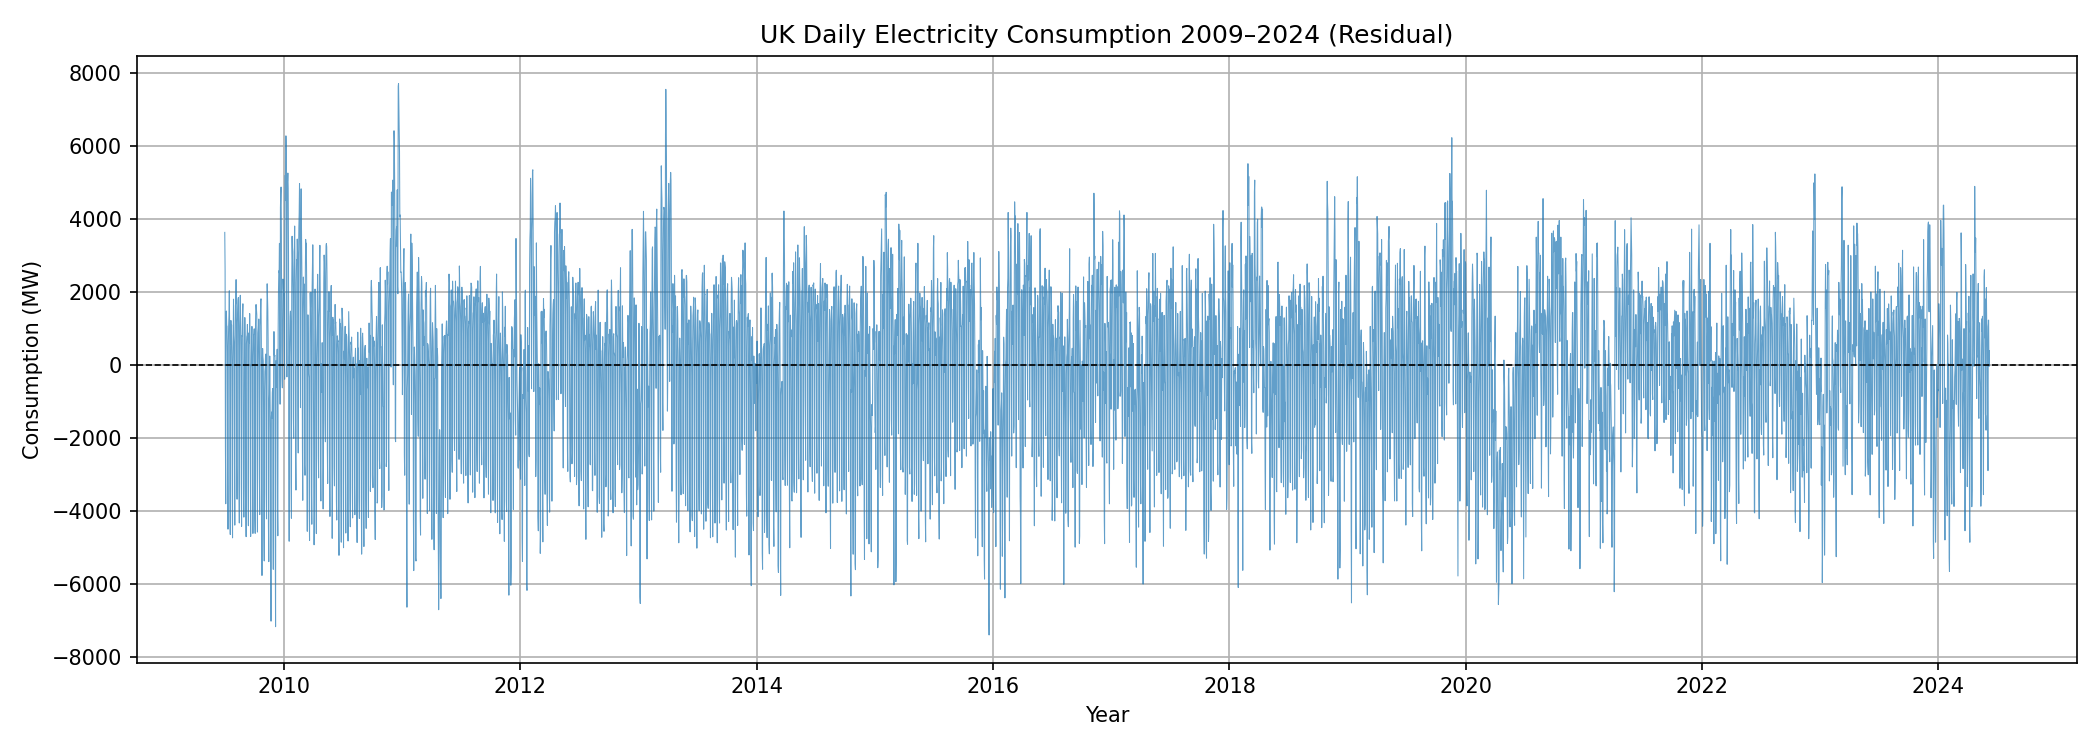
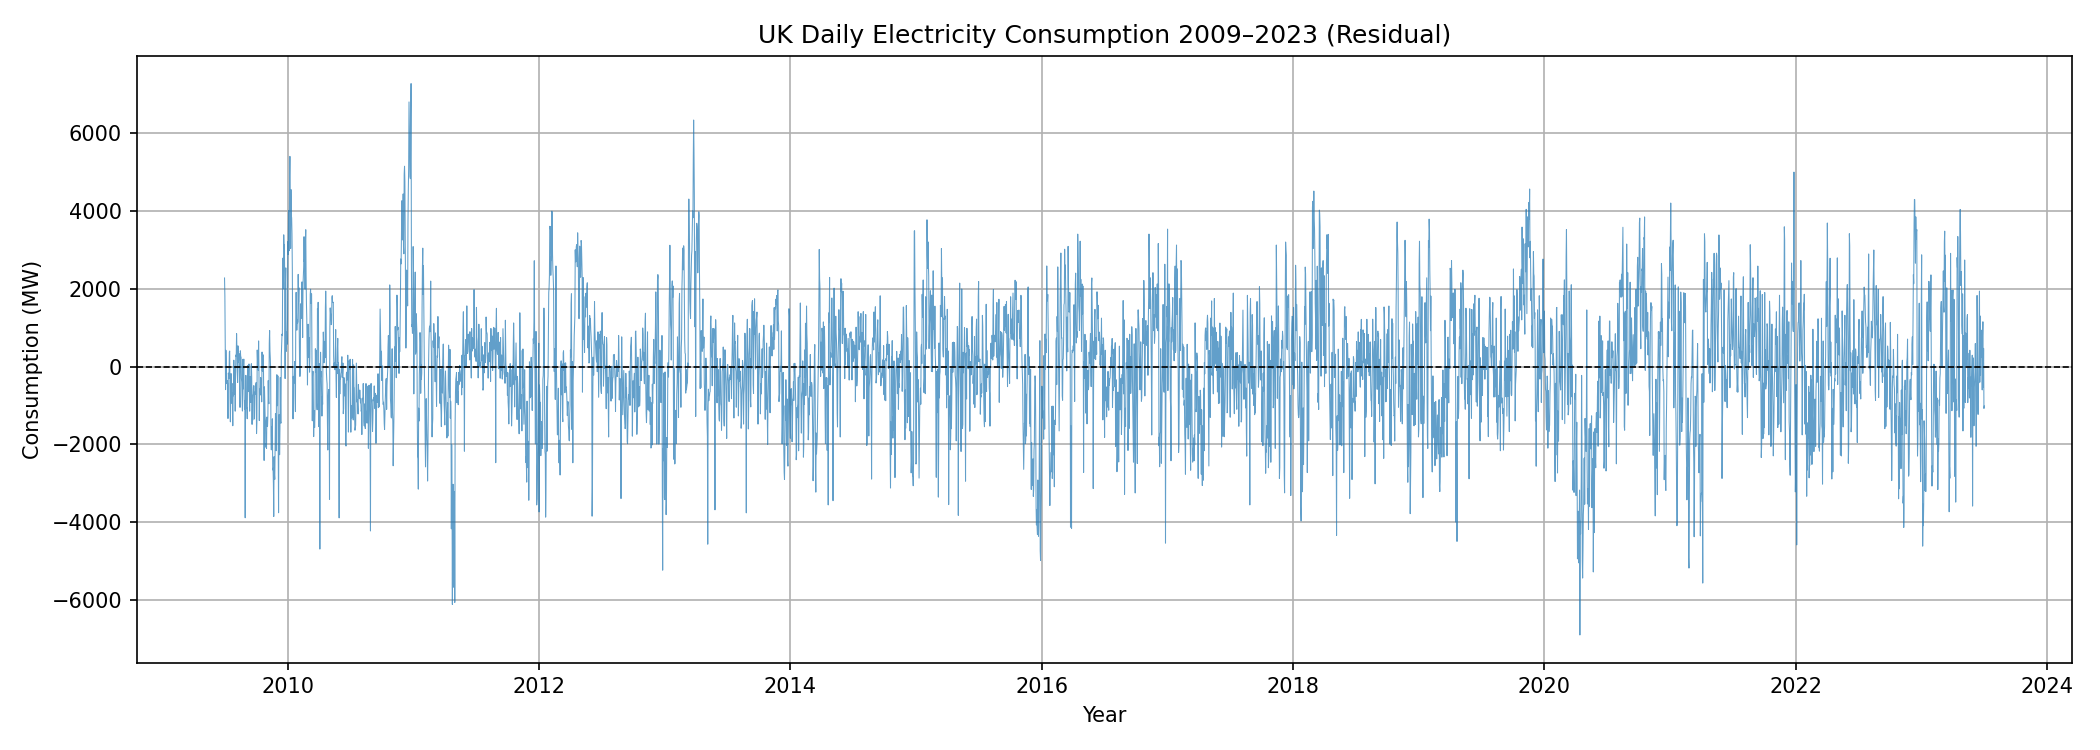
Refactor code to look at all years instead.

diff --git a/estimate_parameters.py b/estimate_parameters.py
@@ -7,60 +7,87 @@ daily_df = df.groupby("settlement_date")["nd"].mean().reset_index()
 daily_df.columns = ["date", "nd"]
 daily_df = daily_df.sort_values("date").reset_index(drop=True)
 
+train_df = daily_df[daily_df["date"].dt.year < 2024].copy().reset_index(drop=True)
+test_df  = daily_df[daily_df["date"].dt.year >= 2024].copy().reset_index(drop=True)
+
 # Trend m_t: yearly moving average (1.5.5 in the book)
-daily_df["trend"] = daily_df["nd"].rolling(window=365, center=True, min_periods=365).mean()
+train_df["trend"] = train_df["nd"].rolling(window=365, center=True, min_periods=365).mean()
 
-# W_k: mean detrended value per day-of-year
-daily_df["detrended"] = daily_df["nd"] - daily_df["trend"]
-daily_df["doy"] = daily_df["date"].dt.day_of_year
-W = daily_df.groupby("doy")["detrended"].mean()
-
-# s_k = W_k - mean(W)
+# W_k: mean detrended value per day-of-year (annual seasonality)
+train_df["detrended"] = train_df["nd"] - train_df["trend"]
+train_df["doy"] = train_df["date"].dt.day_of_year
+W = train_df.groupby("doy")["detrended"].mean()
 s = W - W.mean()
-daily_df["seasonality"] = daily_df["doy"].map(s)
+train_df["seasonality"] = train_df["doy"].map(s)
+
+# Weekly (day-of-week) seasonality from annually-deseasonalized residual
+train_df["after_annual"] = train_df["detrended"] - train_df["seasonality"]
+train_df["dow"] = train_df["date"].dt.dayofweek
+W_weekly = train_df.dropna(subset=["after_annual"]).groupby("dow")["after_annual"].mean()
+W_weekly = W_weekly - W_weekly.mean()
+train_df["weekly_seasonal"] = train_df["dow"].map(W_weekly)
 
 # Deseasonalized and residual
-daily_df["deseasonalized"] = daily_df["nd"] - daily_df["seasonality"]
-daily_df["residual"] = daily_df["nd"] - daily_df["trend"] - daily_df["seasonality"]
+train_df["deseasonalized"] = train_df["nd"] - train_df["seasonality"] - train_df["weekly_seasonal"]
+train_df["residual"] = train_df["nd"] - train_df["trend"] - train_df["seasonality"] - train_df["weekly_seasonal"]
 
 # --- Polynomial fit (degree 3) to deseasonalized data ---
-N = len(daily_df)
+N = len(train_df)
 t = np.arange(N) / (N - 1)
-mask = daily_df["deseasonalized"].notna()
-poly_coeffs = np.polyfit(t[mask], daily_df["deseasonalized"][mask], deg=3)
+mask = train_df["deseasonalized"].notna()
+poly_coeffs = np.polyfit(t[mask], train_df["deseasonalized"][mask], deg=3)
 poly_fit = np.polyval(poly_coeffs, t)
 
-# --- Harmonic fit (k=1) to seasonal component ---
-# s_t = a0 + a1*cos(2*pi*t/365) + b1*sin(2*pi*t/365)
-doy = daily_df["doy"].values
-X = np.column_stack([
+# --- Harmonic fit (k=1) to annual seasonal component ---
+doy = train_df["doy"].values
+X_ann = np.column_stack([
     np.ones(len(doy)),
     np.cos(2 * np.pi * doy / 365),
     np.sin(2 * np.pi * doy / 365),
 ])
-harm_coeffs, _, _, _ = np.linalg.lstsq(X, daily_df["seasonality"].values, rcond=None)
-harm_fit = X @ harm_coeffs
+harm_ann_coeffs, _, _, _ = np.linalg.lstsq(X_ann, train_df["seasonality"].values, rcond=None)
 
-# Format polynomial label with coefficients
-a3, a2, a1, a0 = [round(c) for c in poly_coeffs]
+# --- Harmonic fit (k=2) to weekly seasonal component ---
+dow_vals = train_df["dow"].values
+X_week = np.column_stack([
+    np.ones(len(dow_vals)),
+    np.cos(2 * np.pi * dow_vals / 7),
+    np.sin(2 * np.pi * dow_vals / 7),
+    np.cos(4 * np.pi * dow_vals / 7),
+    np.sin(4 * np.pi * dow_vals / 7),
+])
+harm_week_coeffs, _, _, _ = np.linalg.lstsq(X_week, train_df["weekly_seasonal"].values, rcond=None)
+
 def signed(val):
     return f"+ {val}" if val >= 0 else f"- {abs(val)}"
+
+# Format polynomial label
+a3, a2, a1, a0 = [round(c) for c in poly_coeffs]
 poly_label = rf"$\hat{{m}}_t = {a0} {signed(a1)} t {signed(a2)} t^2 {signed(a3)} t^3$"
 
-# Format harmonic label with coefficients
-h0, h1, b1 = [round(c) for c in harm_coeffs]
-harm_label = (
+# Format annual harmonic label
+h0, h1, hb1 = [round(c) for c in harm_ann_coeffs]
+harm_ann_label = (
     rf"$\hat{{s}}_t = {h0} {signed(h1)} \cdot \cos\!\left(\frac{{2\pi t}}{{365}}\right)"
-    rf" {signed(b1)} \cdot \sin\!\left(\frac{{2\pi t}}{{365}}\right)$"
+    rf" {signed(hb1)} \cdot \sin\!\left(\frac{{2\pi t}}{{365}}\right)$"
+)
+
+# Format weekly harmonic label
+w0, w1, wb1, w2, wb2 = [round(c) for c in harm_week_coeffs]
+harm_week_label = (
+    rf"$\hat{{w}}_t = {w0} {signed(w1)} \cos\!\frac{{2\pi t}}{{7}}"
+    rf" {signed(wb1)} \sin\!\frac{{2\pi t}}{{7}}"
+    rf" {signed(w2)} \cos\!\frac{{4\pi t}}{{7}}"
+    rf" {signed(wb2)} \sin\!\frac{{4\pi t}}{{7}}$"
 )
 
 # Deseasonalized with polynomial fit
 plt.figure(figsize=(14, 5))
-plt.plot(daily_df["date"], daily_df["deseasonalized"], linewidth=0.5, alpha=0.7, label="Deseasonalized data")
-plt.plot(daily_df["date"], poly_fit, linewidth=1.5, color="tab:red", label=poly_label)
+plt.plot(train_df["date"], train_df["deseasonalized"], linewidth=0.5, alpha=0.7, label="Deseasonalized data")
+plt.plot(train_df["date"], poly_fit, linewidth=1.5, color="tab:red", label=poly_label)
 plt.xlabel("Year")
 plt.ylabel("Consumption (MW)")
-plt.title("UK Daily Electricity Consumption 2009–2024 (Deseasonalized)")
+plt.title("UK Daily Electricity Consumption 2009–2023 (Deseasonalized)")
 plt.legend()
 plt.grid(True)
 plt.tight_layout()
@@ -68,13 +95,21 @@ plt.savefig("data/output/deseasonalized.png", dpi=150)
 plt.close()
 print("Saved to data/output/deseasonalized.png")
 
-# Seasonal component with harmonic fit
-plt.figure(figsize=(14, 5))
-plt.plot(daily_df["date"], daily_df["seasonality"], linewidth=0.5, alpha=0.7, label="Seasonal data")
-plt.plot(daily_df["date"], harm_fit, linewidth=1.5, color="tab:red", label=harm_label)
-plt.xlabel("Year")
+# Annual seasonal component — one period (doy 1–365)
+doy_one = np.arange(1, 366)
+X_ann_one = np.column_stack([
+    np.ones(365),
+    np.cos(2 * np.pi * doy_one / 365),
+    np.sin(2 * np.pi * doy_one / 365),
+])
+harm_ann_one = X_ann_one @ harm_ann_coeffs
+
+plt.figure(figsize=(10, 4))
+plt.plot(doy_one, s.reindex(doy_one), linewidth=1.0, alpha=0.8, label="Annual seasonal component")
+plt.plot(doy_one, harm_ann_one, linewidth=1.5, color="tab:red", label=harm_ann_label)
+plt.xlabel("Day of year")
 plt.ylabel("Consumption (MW)")
-plt.title("UK Daily Electricity Consumption 2009–2024 (Seasonal Component)")
+plt.title("Annual Seasonal Component (One Period)")
 plt.legend()
 plt.grid(True)
 plt.tight_layout()
@@ -82,15 +117,109 @@ plt.savefig("data/output/seasonality.png", dpi=150)
 plt.close()
 print("Saved to data/output/seasonality.png")
 
+# Weekly seasonal component — one period (Mon–Sun)
+dow_one = np.arange(7)
+X_week_one = np.column_stack([
+    np.ones(7),
+    np.cos(2 * np.pi * dow_one / 7),
+    np.sin(2 * np.pi * dow_one / 7),
+    np.cos(4 * np.pi * dow_one / 7),
+    np.sin(4 * np.pi * dow_one / 7),
+])
+harm_week_one = X_week_one @ harm_week_coeffs
+
+day_names = ["Mon", "Tue", "Wed", "Thu", "Fri", "Sat", "Sun"]
+plt.figure(figsize=(8, 4))
+plt.plot(dow_one, W_weekly.reindex(dow_one), "o-", linewidth=1.0, alpha=0.8, label="Weekly seasonal component")
+plt.plot(dow_one, harm_week_one, linewidth=1.5, color="tab:red", label=harm_week_label)
+plt.xticks(dow_one, day_names)
+plt.xlabel("Day of week")
+plt.ylabel("Consumption (MW)")
+plt.title("Weekly Seasonal Component (One Period)")
+plt.legend()
+plt.grid(True)
+plt.tight_layout()
+plt.savefig("data/output/weekly_seasonality.png", dpi=150)
+plt.close()
+print("Saved to data/output/weekly_seasonality.png")
+
 # Residual
 plt.figure(figsize=(14, 5))
-plt.plot(daily_df["date"], daily_df["residual"], linewidth=0.5, alpha=0.7)
+plt.plot(train_df["date"], train_df["residual"], linewidth=0.5, alpha=0.7)
 plt.axhline(0, color="black", linewidth=0.8, linestyle="--")
 plt.xlabel("Year")
 plt.ylabel("Consumption (MW)")
-plt.title("UK Daily Electricity Consumption 2009–2024 (Residual)")
+plt.title("UK Daily Electricity Consumption 2009–2023 (Residual)")
 plt.grid(True)
 plt.tight_layout()
 plt.savefig("data/output/residual.png", dpi=150)
 plt.close()
 print("Saved to data/output/residual.png")
+
+# ACF of residuals
+resid = train_df["residual"].dropna().values
+n = len(resid)
+max_lag = 100
+resid_c = resid - resid.mean()
+acf_vals = np.array([
+    np.dot(resid_c[:n - k], resid_c[k:]) / np.dot(resid_c, resid_c)
+    for k in range(max_lag + 1)
+])
+lags = np.arange(max_lag + 1)
+
+plt.figure(figsize=(12, 4))
+plt.bar(lags, acf_vals, width=0.5, color="tab:blue")
+plt.axhline(0, color="black", linewidth=0.6)
+plt.xlabel("Lag (days)")
+plt.ylabel("ACF")
+plt.title("ACF of Residuals")
+plt.grid(True, axis="y", alpha=0.4)
+plt.tight_layout()
+plt.savefig("data/output/acf_residuals.png", dpi=150)
+plt.close()
+print("Saved to data/output/acf_residuals.png")
+
+# Yule-Walker estimation with AICC model selection
+p_max = 10
+gamma = np.array([np.dot(resid_c[:n - k], resid_c[k:]) / n for k in range(p_max + 1)])
+
+aicc_vals = np.full(p_max + 1, np.nan)
+# p=0: white noise, 1 parameter (sigma^2)
+aicc_vals[0] = n * np.log(gamma[0]) + 2 * n / (n - 2)
+
+for p in range(1, p_max + 1):
+    if n - p - 2 <= 0:
+        break
+    Gamma = np.array([[gamma[abs(i - j)] for j in range(p)] for i in range(p)])
+    gamma_vec = gamma[1:p + 1]
+    phi = np.linalg.solve(Gamma, gamma_vec)
+    sigma2 = gamma[0] - phi @ gamma_vec
+    if sigma2 <= 0:
+        break
+    aicc_vals[p] = n * np.log(sigma2) + 2 * (p + 1) * n / (n - p - 2)
+
+p_opt = int(np.nanargmin(aicc_vals))
+print(f"Optimal AR order: p = {p_opt},  AICC = {aicc_vals[p_opt]:.2f}")
+
+# Refit at optimal order and report coefficients
+if p_opt > 0:
+    Gamma_opt = np.array([[gamma[abs(i - j)] for j in range(p_opt)] for i in range(p_opt)])
+    gamma_vec_opt = gamma[1:p_opt + 1]
+    phi_opt = np.linalg.solve(Gamma_opt, gamma_vec_opt)
+    sigma2_opt = gamma[0] - phi_opt @ gamma_vec_opt
+    print(f"AR({p_opt}) coefficients: {np.round(phi_opt, 4)}")
+    print(f"Noise variance: {sigma2_opt:.2f}")
+
+# Plot AICC vs p
+plt.figure(figsize=(10, 4))
+plt.plot(np.arange(p_max + 1), aicc_vals, marker="o", markersize=4)
+plt.axvline(p_opt, color="tab:red", linestyle="--", linewidth=0.8, label=f"p = {p_opt}")
+plt.xlabel("AR order p")
+plt.ylabel("AICC")
+plt.title("AICC vs AR Order (Yule-Walker)")
+plt.legend()
+plt.grid(True)
+plt.tight_layout()
+plt.savefig("data/output/aicc.png", dpi=150)
+plt.close()
+print("Saved to data/output/aicc.png")